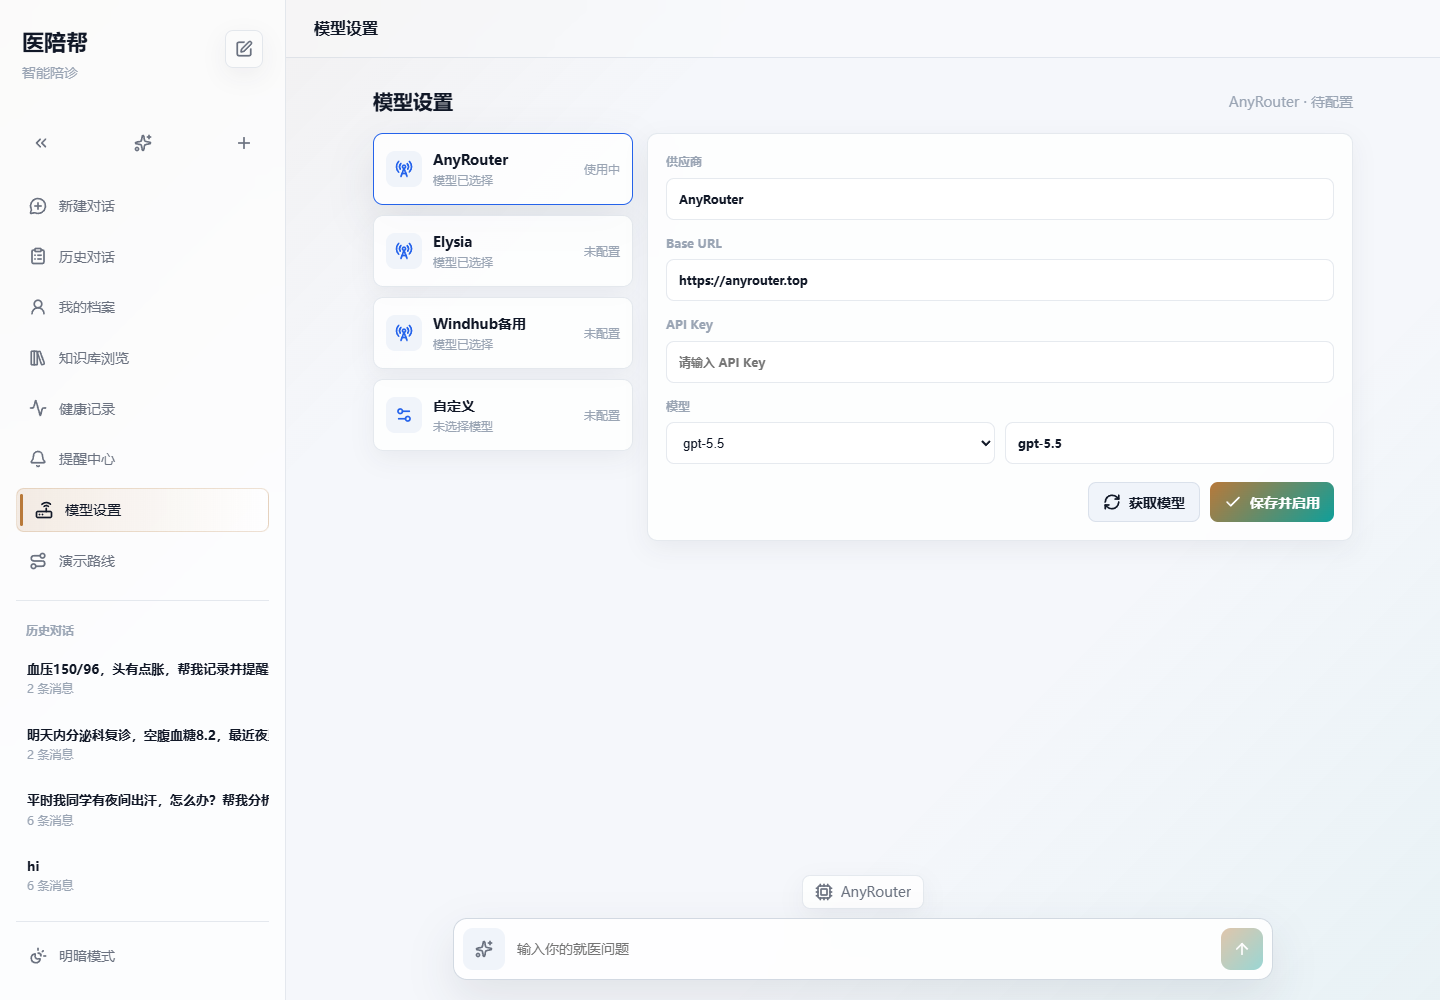
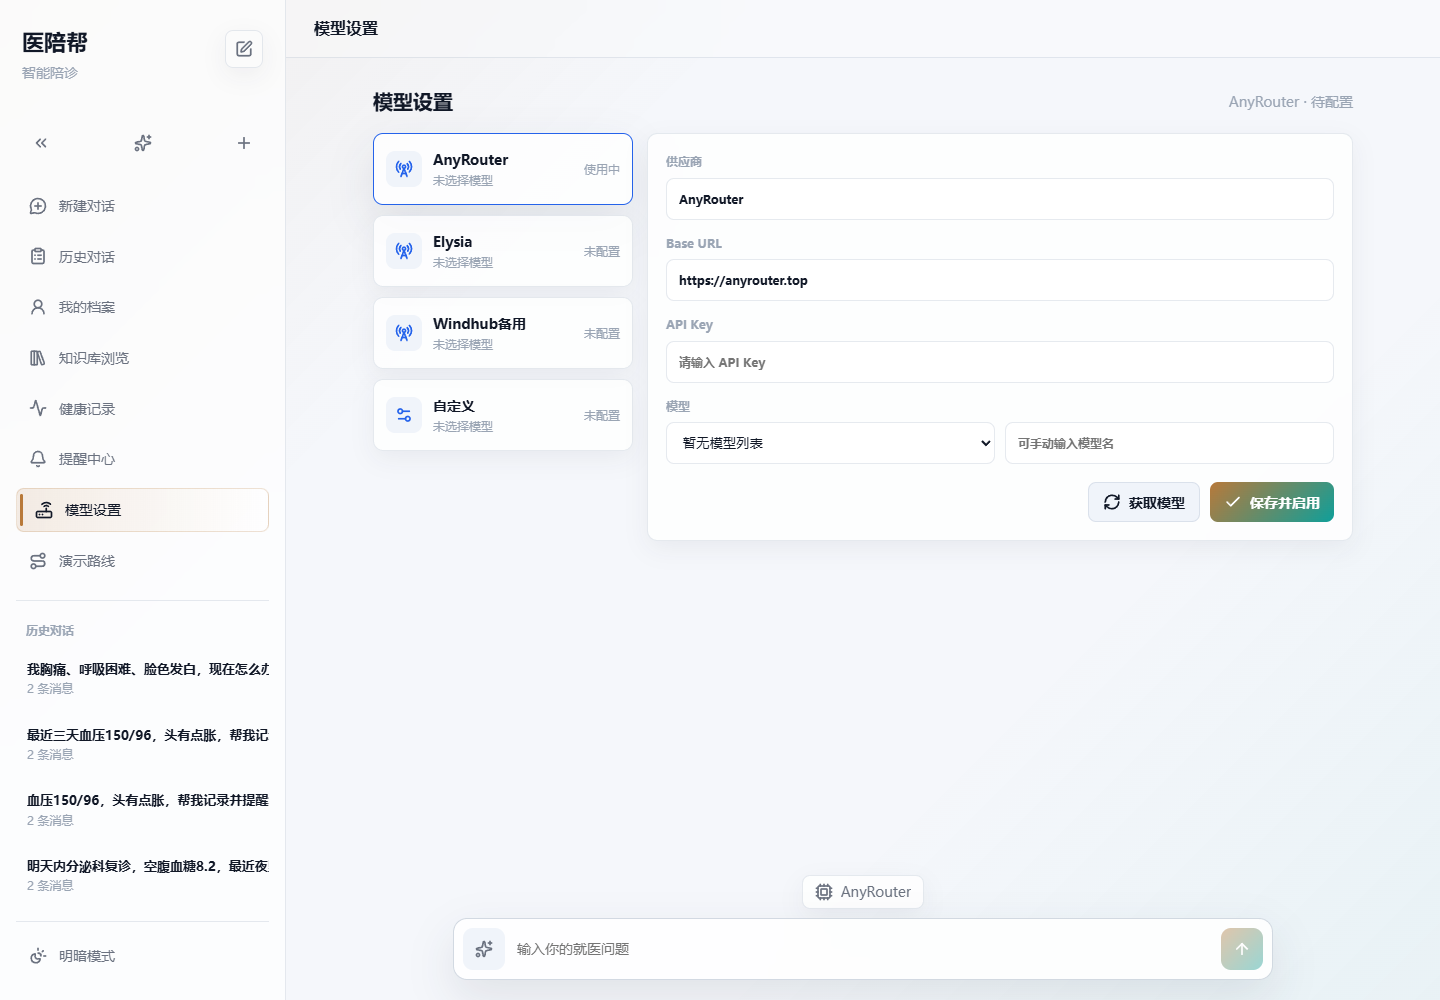
fix: hide model names in public UI

diff --git a/app.js b/app.js
@@ -351,8 +351,8 @@ async function loadProviders() {
     providerState = {
       active_provider: "anyrouter",
       providers: [
-        { id: "anyrouter", name: "AnyRouter", base_url: "https://anyrouter.top", model: "gpt-5.5", models: ["gpt-5.5"], enabled: true, api_key_set: true, api_key_preview: "已配置" },
-        { id: "elysia", name: "Elysia", base_url: "https://elysia.h-e.top", model: "deepseek-v4-pro", models: ["deepseek-v4-pro"], enabled: true, api_key_set: true, api_key_preview: "已配置" }
+        { id: "anyrouter", name: "AnyRouter", base_url: "https://anyrouter.top", model: "", models: [], enabled: true, api_key_set: false, api_key_preview: "" },
+        { id: "elysia", name: "Elysia", base_url: "https://elysia.h-e.top", model: "", models: [], enabled: true, api_key_set: false, api_key_preview: "" }
       ]
     };
     selectedProviderId = providerState.active_provider;
@@ -422,9 +422,10 @@ function renderProviderForm() {
   $("#providerApiKey").placeholder = provider.api_key_set ? `已保存 ${provider.api_key_preview}，留空沿用` : "请输入 API Key";
   const models = provider.models?.length ? provider.models : (provider.model ? [provider.model] : []);
   $("#providerModelSelect").innerHTML = models.length
-    ? models.map((model) => `<option value="${escapeAttr(model)}" ${model === provider.model ? "selected" : ""}>${escapeHtml(model)}</option>`).join("")
+    ? models.map((model, index) => `<option value="${escapeAttr(model)}" ${model === provider.model ? "selected" : ""}>模型通道 ${index + 1}</option>`).join("")
     : `<option value="">暂无模型列表</option>`;
-  $("#providerModelInput").value = provider.model || "";
+  $("#providerModelInput").value = "";
+  $("#providerModelInput").placeholder = provider.model ? "已选择模型，留空沿用" : "可手动输入模型名";
   $("#modelStatus").textContent = `${provider.name || provider.id} · ${provider.api_key_set ? "Key 已配置" : "待配置"}`;
 }
 

diff --git a/server_fastapi.py b/server_fastapi.py
@@ -334,8 +334,8 @@ DEFAULT_AI_CONFIG = {
             "name": "AnyRouter",
             "base_url": "https://anyrouter.top",
             "api_key": "",
-            "model": "gpt-5.5",
-            "models": ["gpt-5.5"],
+            "model": "",
+            "models": [],
             "enabled": True,
             "built_in": True,
         },
@@ -344,8 +344,8 @@ DEFAULT_AI_CONFIG = {
             "name": "Elysia",
             "base_url": "https://elysia.h-e.top",
             "api_key": "",
-            "model": "deepseek-v4-pro",
-            "models": ["deepseek-v4-pro"],
+            "model": "",
+            "models": [],
             "enabled": True,
             "built_in": True,
         },
@@ -354,8 +354,8 @@ DEFAULT_AI_CONFIG = {
             "name": "Windhub备用",
             "base_url": "https://windhub.cc",
             "api_key": "",
-            "model": "deepseek-v3-2-251201",
-            "models": ["deepseek-v3-2-251201"],
+            "model": "",
+            "models": [],
             "enabled": True,
             "built_in": True,
         },
@@ -420,8 +420,8 @@ def normalize_ai_config(raw: dict | None = None) -> dict:
             "name": "Windhub备用",
             "base_url": raw.get("base_url", "https://windhub.cc"),
             "api_key": raw.get("api_key", ""),
-            "model": raw.get("model", "deepseek-v3-2-251201"),
-            "models": [raw.get("model", "deepseek-v3-2-251201")],
+            "model": raw.get("model", ""),
+            "models": [raw.get("model")] if raw.get("model") else [],
             "enabled": True,
             "built_in": True,
         }